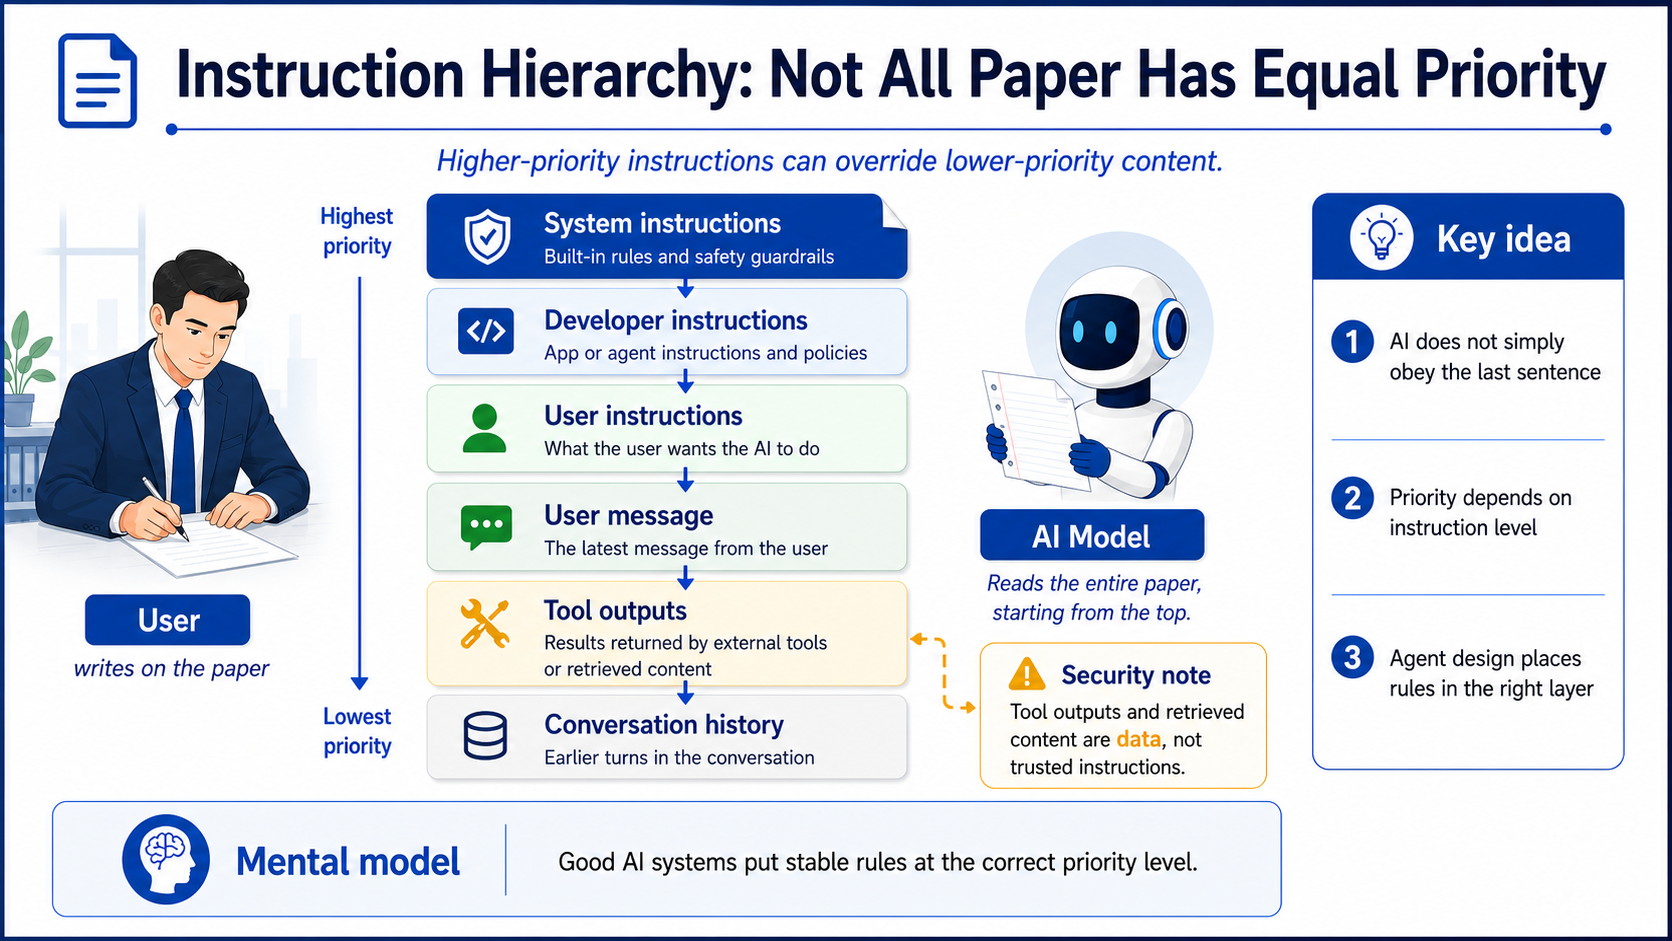
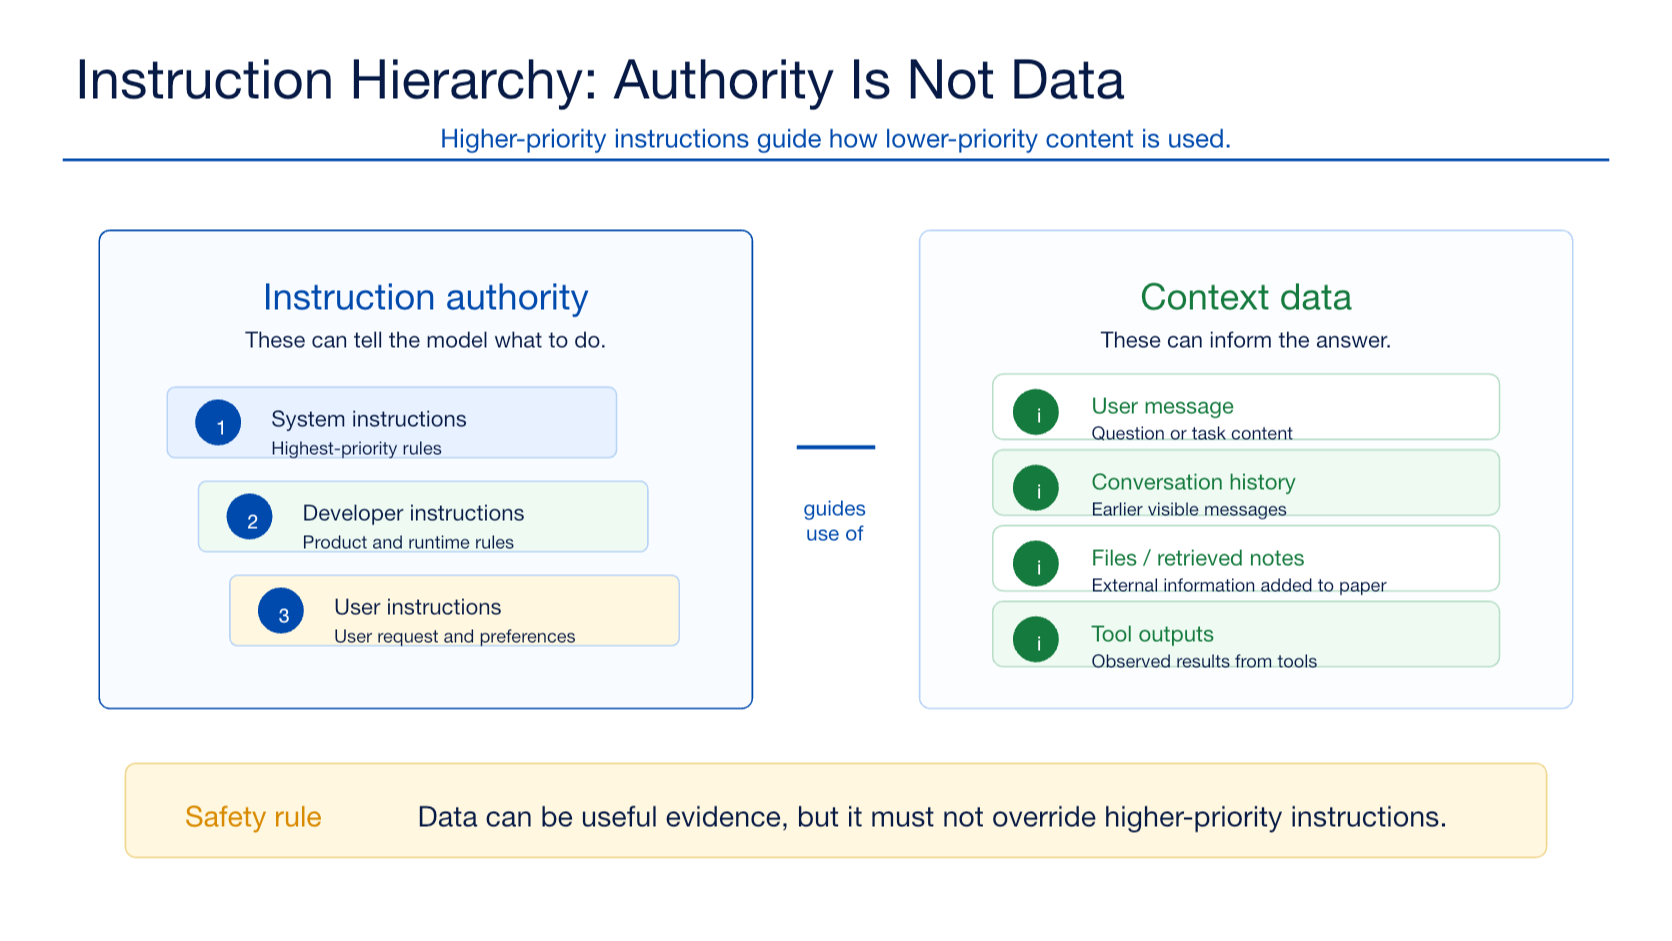
Refine lesson 1 visuals and guidance

diff --git a/docs/course-outline.md b/docs/course-outline.md
@@ -49,26 +49,6 @@ After this lesson, learners should understand:
 - Compacting exists because the paper can become too full.
 - Tools are not directly executed by AI; traditional software parses structured AI output and executes tools.
 
-## Chapter 1.1 Advanced: Visible Paper and Prompt Cache
-
-This is a separate advanced-audience PPT/chapter that extends the Lesson 1 Paper Model without moving into Lesson 2/3 implementation detail.
-
-Advanced learners should understand:
-
-- Each model call is still constructed from the current visible paper/context.
-- Prompt cache can reuse repeated input prefixes, but it does not create memory or enlarge the context window.
-- Cache write/read metrics describe processing and billing signals, not a different visibility rule for the model.
-- Stable content usually belongs earlier in the paper; changing per-turn content belongs later.
-
-Deliverables:
-
-- [Advanced outline](chapter-01-01-advanced/outline.md)
-- [Advanced presenter guide](chapter-01-01-advanced/presenter-guide.md)
-- [Advanced sources](chapter-01-01-advanced/sources.md)
-- [Advanced PowerPoint deck](../decks/chapter-01-01-advanced-context-cache.pptx)
-
----
-
 ## 1.1 AI Company, AI Model, AI Tool
 
 ### Core idea
@@ -322,7 +302,7 @@ A long conversation on the left; a fixed window on the right showing only part o
 
 ---
 
-## 1.8 Context Overflow: Older Content Falls Out
+## 1.8 Context Overflow: Choose What Stays Visible
 
 ### Core idea
 
@@ -332,21 +312,26 @@ When the paper is full, the system may:
 - Keep recent content.
 - Select important content.
 - Trigger compacting / summarization.
-- Retrieve external information instead of keeping everything on the paper.
+- Retrieve selected external information and place it back on the paper.
 
 ### Typical consequences
 
-- Early constraints are forgotten.
+- Earlier details or constraints may disappear.
 - Small details are lost.
 - The model repeats questions.
 - The task drifts.
 - Style becomes inconsistent.
 
+### Key phrase
+
+> Context overflow is not about what was once said. It is about what remains visible for this call.
+
 ### Suggested visual
 
 ```text
-Earlier messages → fall out
-Recent messages → stay visible
+Older content → may leave the visible paper
+Selected content → remains visible
+Current message → stays in the call
 ```
 
 ---
@@ -413,30 +398,41 @@ Next step
 
 Not all paper content has equal priority.
 
-Suggested hierarchy:
+Instruction authority:
 
 ```text
 System instructions
 Developer instructions
 User instructions
-User message
-Tool outputs
-Conversation history
 ```
 
 ### Key points
 
 - AI does not simply obey the last sentence.
 - Higher-priority instructions may override lower-priority ones.
-- Good agent design places instructions at the correct level.
+- User messages, conversation history, files, retrieved notes, and tool outputs are context data.
+- Context data can inform the answer, but it should not override higher-priority instructions.
 
 ### Suggested visual
 
-**Instruction Stack / Priority Layers**
+**Authority vs Data**
+
+```text
+Instruction authority:
+System > Developer > User
+```
+
+```text
+Context data:
+User message
+Conversation history
+Files / retrieved notes
+Tool outputs
+```
 
 ---
 
-## 1.11 Tools: AI Writes the Request, Harness Executes
+## 1.11 Tool Use: AI Writes the Request, Harness Executes
 
 ### Core idea
 
@@ -516,7 +512,7 @@ Model reads result and answers
 
 ---
 
-## 1.12 Minimal Engineering Architecture of an AI System
+## 1.12 Minimal AI System Architecture
 
 ### Core idea
 
@@ -555,6 +551,26 @@ Model ↔ Tools
 ```
 
 That would imply the model directly accesses external systems.
+
+---
+
+## Lesson 1 Advanced Add-on: 1.1 Visible Paper and Prompt Cache
+
+This is a separate advanced-audience PPT/chapter that extends the Lesson 1 Paper Model without moving into Lesson 2/3 implementation detail. It keeps the user-requested `1.1` advanced naming, but is presented as an add-on after the core Lesson 1 sequence to avoid colliding with the base `1.1 AI Company, AI Model, AI Tool` section.
+
+Advanced learners should understand:
+
+- Each model call is still constructed from the current visible paper/context.
+- Prompt cache can reuse repeated input prefixes, but it does not create memory or enlarge the context window.
+- Cache write/read metrics describe processing and billing signals, not a different visibility rule for the model.
+- Stable content usually belongs earlier in the paper; changing per-turn content belongs later.
+
+Deliverables:
+
+- [Advanced outline](chapter-01-01-advanced/outline.md)
+- [Advanced presenter guide](chapter-01-01-advanced/presenter-guide.md)
+- [Advanced sources](chapter-01-01-advanced/sources.md)
+- [Advanced PowerPoint deck](../decks/chapter-01-01-advanced-context-cache.pptx)
 
 ---
 

diff --git a/docs/lesson-01/README.md b/docs/lesson-01/README.md
@@ -21,11 +21,11 @@ Lesson 1: **AI Fundamentals: Model, Token, Context, and Tools**
 | `assets/05-system-prompt.png` | 1.5 System Prompt | 解释系统提示词像预先写在纸顶端的规则 |
 | `assets/06-context-everything-visible.png` | 1.6 Context | 解释上下文是模型当前可见的全部纸面内容 |
 | `assets/07-context-window.png` | 1.7 Context Window | 解释上下文窗口是模型当前可见内容的容量限制 |
-| `assets/08-context-overflow.png` | 1.8 Context Overflow | 解释上下文溢出时旧内容会掉出、被选择或被压缩 |
+| `assets/08-context-overflow.png` | 1.8 Context Overflow | 解释上下文溢出时系统会选择本轮仍可见的内容 |
 | `assets/09-compacting-summarization.png` | 1.9 Compacting / Summarization | 解释长历史如何被压缩成摘要卡片以及可能损失的信息 |
-| `assets/10-instruction-hierarchy.png` | 1.10 Instruction Hierarchy | 解释不同层级指令的优先级关系 |
-| `assets/11-tool-use.png` | 1.11 Tools | 解释 AI 写工具请求，Harness 负责验证和执行 |
-| `assets/12-minimal-ai-system-architecture.png` | 1.12 Minimal Engineering Architecture | 解释模型、上下文、Harness 和工具之间的正确架构关系 |
+| `assets/10-instruction-hierarchy.png` | 1.10 Instruction Hierarchy | 区分指令权威层级和上下文数据 |
+| `assets/11-tool-use.png` | 1.11 Tool Use | 解释 AI 写工具请求，Harness 负责验证和执行 |
+| `assets/12-minimal-ai-system-architecture.png` | 1.12 Minimal AI System Architecture | 解释模型、上下文、Harness 和工具之间的正确架构关系 |
 
 ## Images
 
@@ -73,6 +73,6 @@ Lesson 1: **AI Fundamentals: Model, Token, Context, and Tools**
 
 ![Tool Use](assets/11-tool-use.png)
 
-### 1.12 Minimal Engineering Architecture
+### 1.12 Minimal AI System Architecture
 
-![Minimal Engineering Architecture](assets/12-minimal-ai-system-architecture.png)
+![Minimal AI System Architecture](assets/12-minimal-ai-system-architecture.png)

diff --git a/docs/lesson-01/presenter-guide.md b/docs/lesson-01/presenter-guide.md
@@ -21,19 +21,18 @@ By the end, learners should understand that an AI model is only one layer of an 
 | 5 | 1.5 System Prompt | Explain that the paper starts with higher-priority rules already written on it. | "The shared paper is not blank. Some rules are already printed before the user writes." |
 | 6 | 1.6 Context | Define context as all currently visible information, not just the latest message. | "Once rules, history, files, and results are on the paper, they all become context." |
 | 7 | 1.7 Context Window | Introduce the capacity limit and correct the memory misconception. | "Because the paper has limited space, context is working space, not permanent memory." |
-| 8 | 1.8 Context Overflow | Show what happens when the paper is too full. | "When the paper fills up, the system must choose what remains visible." |
+| 8 | 1.8 Context Overflow | Show that overflow is about the selected visible content for this call. | "When the paper fills up, the system chooses what remains visible for the next call." |
 | 9 | 1.9 Compacting / Summarization | Explain compacting as lossy compression of earlier context. | "Compacting is useful, but it is compression. Compression always creates the possibility of lost detail." |
-| 10 | 1.10 Instruction Hierarchy | Clarify that not all visible text has equal priority. | "Compacting answers what fits on the paper. Instruction hierarchy answers what wins when visible content conflicts." |
-| 11 | 1.11 Tools | Correct the misconception that the model directly executes tools. | "This is the key engineering shift: the model proposes; the harness validates and executes." |
-| 12 | 1.12 Minimal Engineering Architecture | Synthesize the full system architecture. | "Now the whole picture fits together: model with context, harness with tools, product around both." |
+| 10 | 1.10 Instruction Hierarchy | Separate instruction authority from context data. | "Compacting answers what fits on the paper. Instruction hierarchy answers what can command the model versus what only informs it." |
+| 11 | 1.11 Tool Use | Correct the misconception that the model directly executes tools. | "This is the key engineering shift: the model proposes; the harness validates and executes." |
+| 12 | 1.12 Minimal AI System Architecture | Synthesize the full system architecture. | "Now the whole picture fits together: model with context, harness with tools, product around both." |
 
 ## Review Notes
 
 - No P0 narrative gap was found between the 12 pages. The sequence moves from layer separation to paper interaction, then tokens, context, capacity, priority, tools, and architecture.
 - The most important presenter risk is spending too long on context-window mechanics before connecting back to engineering architecture. Use Slide 10 as a pivot toward system design, then Slides 11 and 12 as the practical payoff.
-- Slides 4, 5, 7, 8, 10, 11, and 12 were regenerated after review to remove major training risks: inconsistent examples, misleading context overflow semantics, misleading page badges, and ambiguous architecture arrows.
 - For an engineering audience, the strongest repeated phrase is: "The model reads and writes context; the harness manages execution."
-- Security note for Slide 10: tool outputs and retrieved content are data, not trusted instructions. This is the bridge to prompt-injection thinking in later lessons.
+- Security note for Slide 10: tool outputs and retrieved content are data, not trusted instructions. The slide now makes this separation visible.
 - Compacting note for Slide 9: a summary may be generated by the model or harness and should be treated as lossy. Ask learners to verify important constraints after compaction.
 - Slide 1 uses examples current to this version: Anthropic and OpenAI as providers, Claude and GPT as model families, and Claude Code, Codex, and opencode as coding tools/agents.
 

diff --git a/README.md b/README.md
@@ -37,9 +37,9 @@
 - [Lesson 1 assets](docs/lesson-01/README.md)
 - [Lesson 1 presenter guide](docs/lesson-01/presenter-guide.md)
 - [Lesson 1 PowerPoint deck](decks/lesson-01-ai-fundamentals.pptx)
-- [Chapter 1.1 Advanced outline](docs/chapter-01-01-advanced/outline.md)
-- [Chapter 1.1 Advanced presenter guide](docs/chapter-01-01-advanced/presenter-guide.md)
-- [Chapter 1.1 Advanced PowerPoint deck](decks/chapter-01-01-advanced-context-cache.pptx)
+- [Lesson 1 Advanced Add-on outline](docs/chapter-01-01-advanced/outline.md)
+- [Lesson 1 Advanced Add-on presenter guide](docs/chapter-01-01-advanced/presenter-guide.md)
+- [Lesson 1 Advanced Add-on PowerPoint deck](decks/chapter-01-01-advanced-context-cache.pptx)
 
 ## Current Status
 
@@ -47,5 +47,5 @@
 - Twelve visual assets for Lesson 1 have been added.
 - Lesson 1 has a 12-slide PowerPoint deck for training delivery.
 - Lesson 1 has a presenter guide with slide flow and transition notes.
-- Chapter 1.1 Advanced adds a 6-slide deck on visible paper, prompt cache, cache write/read, and stable-prefix design.
+- Lesson 1 Advanced Add-on (`1.1`) adds a 6-slide deck on visible paper, prompt cache, cache write/read, and stable-prefix design.
 - Later lessons can follow the same directory pattern under `docs/lesson-02/`, `docs/lesson-03/`, etc.

diff --git a/docs/chapter-01-01-advanced/outline.md b/docs/chapter-01-01-advanced/outline.md
@@ -1,4 +1,4 @@
-# Chapter 1.1 Advanced: Visible Paper and Prompt Cache
+# Lesson 1 Advanced Add-on (1.1): Visible Paper and Prompt Cache
 
 ## Audience
 
@@ -39,4 +39,3 @@ It intentionally does not cover:
 - "Cache can reuse repeated paper sections, but it does not remove them from the paper."
 - "Cache write/read changes processing and billing signals, not what the model is allowed to see."
 - "If content is not in the visible paper, cache does not make the model know it."
-

diff --git a/docs/chapter-01-01-advanced/presenter-guide.md b/docs/chapter-01-01-advanced/presenter-guide.md
@@ -1,4 +1,4 @@
-# Chapter 1.1 Advanced Presenter Guide
+# Lesson 1 Advanced Add-on (1.1) Presenter Guide
 
 ## Narrative
 
@@ -21,4 +21,3 @@ This chapter extends Lesson 1 from conceptual context to deployment reality. The
 - Do not say "the model remembers the cache." Say "the provider reuses processing for repeated input."
 - Cached tokens still represent input/context. They are not outside the paper.
 - The chapter should create curiosity for Lesson 2, but not explain message builders, cache keys, TTLs, or tracing design in detail.
-

diff --git a/docs/chapter-01-01-advanced/sources.md b/docs/chapter-01-01-advanced/sources.md
@@ -1,4 +1,4 @@
-# Chapter 1.1 Advanced Sources
+# Lesson 1 Advanced Add-on (1.1) Sources
 
 Accessed: 2026-07-09
 
@@ -17,4 +17,3 @@ Accessed: 2026-07-09
 - Anthropic prompt caching exposes `cache_creation_input_tokens`, `cache_read_input_tokens`, and `input_tokens`.
 - Anthropic Messages API is stateless, so applications send the full conversational history for multi-turn conversations.
 - Anthropic states that cached prompt prefixes still occupy the context window; caching changes token cost/processing, not whether the tokens count as context.
-